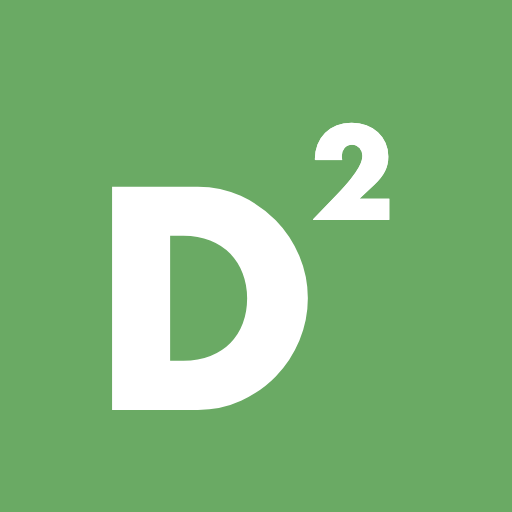
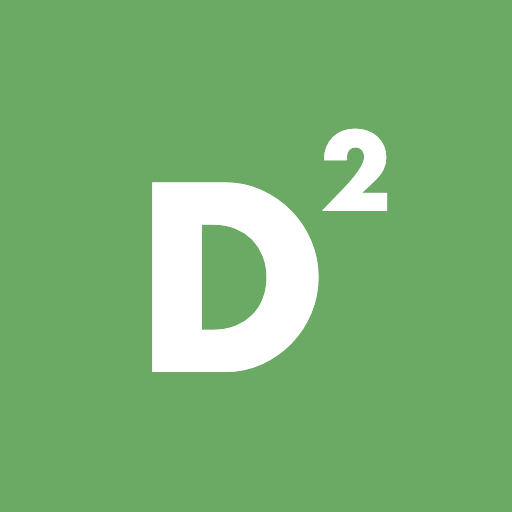
Dailyカレンダーを直下展開に変更し、丸いPWAアイコンに対応

diff --git a/DWORDle2/js/ui/problems-screen.js b/DWORDle2/js/ui/problems-screen.js
@@ -26,6 +26,9 @@ let levelIdx = -1; // -1 は Daily、0 以上は LEVELS のインデックス
 let blockStart = null; // ブロック表示中の先頭 No.（null なら ブロック一覧）
 let statusFilter = "all"; // "all" | "cleared" | "failed" | "unplayed"
 let dailyCalendarMonth = null; // year * 12 + month。null は今月
+let dailySelectedPid = null; // カレンダーで選択中の日付（null は今日）
+// 履歴が無い月もさかのぼれるように、今月からの遡行可能な月数だけを上限にする
+const DAILY_CALENDAR_MAX_MONTHS_BACK = 120;
 
 function build() {
   root = document.getElementById("screen-problems");
@@ -38,7 +41,7 @@ function statusOf(statusMap, pid) {
   return "failed";
 }
 
-function openProblemMenu(pid, statusMap, { allowPlay = true } = {}) {
+function openProblemMenu(pid, statusMap) {
   const mode = getAppMode();
   const st = statusMap.get(pid);
   const historyItems = (st?.times ?? [])
@@ -60,21 +63,12 @@ function openProblemMenu(pid, statusMap, { allowPlay = true } = {}) {
     closeButton: true,
     title: pidLabel(pid),
     body: [
-      allowPlay
-        ? el(
-            "button",
-            { class: "btn btn-primary", style: { width: "100%" }, onclick: () => { confirmAndStart(pid, mode); } },
-            icon("play"),
-            tr("この問題をプレイ", "Play this puzzle")
-          )
-        : el(
-            "p",
-            { class: "hint daily-history-only" },
-            tr(
-              "過去のDailyはプレイできません。プレイ履歴のみ確認できます。",
-              "Past Daily puzzles cannot be played. You can only view their play history."
-            )
-          ),
+      el(
+        "button",
+        { class: "btn btn-primary", style: { width: "100%" }, onclick: () => { confirmAndStart(pid, mode); } },
+        icon("play"),
+        tr("この問題をプレイ", "Play this puzzle")
+      ),
       historyItems.length
         ? el("div", { class: "hint", style: { marginTop: "6px" } }, tr("プレイ履歴:", "Play history:"))
         : el("p", { class: "hint" }, tr("この問題はまだプレイしていません。", "This puzzle has not been played yet.")),
@@ -122,7 +116,11 @@ function dailyCalendar(statusMap) {
     .map(dailyDateFromPid)
     .filter(Boolean)
     .map((date) => date.getFullYear() * 12 + date.getMonth());
-  const earliestMonth = playedDailyMonths.length ? Math.min(...playedDailyMonths) : currentMonth;
+  // 履歴が無い月も見られるように、遡行の下限は履歴とは無関係に決める
+  const earliestMonth = Math.min(
+    currentMonth - DAILY_CALENDAR_MAX_MONTHS_BACK,
+    ...playedDailyMonths
+  );
   if (
     dailyCalendarMonth === null
     || dailyCalendarMonth < earliestMonth
@@ -130,6 +128,8 @@ function dailyCalendar(statusMap) {
   ) {
     dailyCalendarMonth = currentMonth;
   }
+  // 選択中の日付。未選択・未来日付・表示中の月の外なら今日に戻す
+  const selectedPid = dailySelectedPid !== null && dailySelectedPid <= todayPid ? dailySelectedPid : todayPid;
   const year = Math.floor(dailyCalendarMonth / 12);
   const month = dailyCalendarMonth % 12;
   const firstWeekday = new Date(year, month, 1).getDay();
@@ -143,7 +143,7 @@ function dailyCalendar(statusMap) {
     const { status, doubleClear, label } = dailyStatus(statusMap, pid);
     const today = pid === todayPid;
     const future = pid > todayPid;
-    const interactive = today || status !== "unplayed";
+    const selected = pid === selectedPid;
     const dayLabel = tr(
       `${year}年${month + 1}月${day}日${today ? "、今日" : ""}、${label}`,
       `${year}-${String(month + 1).padStart(2, "0")}-${String(day).padStart(2, "0")}${today ? ", today" : ""}, ${label}`
@@ -152,12 +152,15 @@ function dailyCalendar(statusMap) {
       el(
         "button",
         {
-          class: `daily-calendar-day ${status} ${doubleClear ? "double-clear" : ""} ${today ? "today" : ""} ${future ? "future" : ""}`,
+          class: `daily-calendar-day ${status} ${doubleClear ? "double-clear" : ""} ${today ? "today" : ""} ${future ? "future" : ""} ${selected ? "selected" : ""}`,
           "aria-label": dayLabel,
-          disabled: future || !interactive,
+          "aria-pressed": future ? null : String(selected),
+          disabled: future,
           onclick: () => {
             playSfx("ui");
-            openProblemMenu(pid, statusMap, { allowPlay: today });
+            // ダイアログではなくカレンダー直下に内容を展開する
+            dailySelectedPid = pid;
+            render();
           },
         },
         el("span", { class: "daily-calendar-number" }, String(day)),
@@ -218,7 +221,65 @@ function dailyCalendar(statusMap) {
       tr(["日", "月", "火", "水", "木", "金", "土"], ["Sun", "Mon", "Tue", "Wed", "Thu", "Fri", "Sat"])
         .map((label) => el("span", {}, label))
     ),
-    el("div", { class: "daily-calendar-grid" }, cells)
+    el("div", { class: "daily-calendar-grid" }, cells),
+    dailyDetail(selectedPid, statusMap, todayPid)
+  );
+}
+
+// 選択した日の内容。以前はダイアログで出していたものをカレンダー直下へ展開する。
+function dailyDetail(pid, statusMap, todayPid) {
+  const mode = getAppMode();
+  const date = dailyDateFromPid(pid);
+  const isToday = pid === todayPid;
+  const { status, doubleClear, label } = dailyStatus(statusMap, pid);
+  const heading = date
+    ? tr(
+        `${date.getFullYear()}年${date.getMonth() + 1}月${date.getDate()}日`,
+        `${date.getFullYear()}-${String(date.getMonth() + 1).padStart(2, "0")}-${String(date.getDate()).padStart(2, "0")}`
+      )
+    : pidLabel(pid);
+  const plays = (statusMap.get(pid)?.times ?? []).slice().reverse();
+  return el(
+    "div",
+    { class: "daily-detail", "aria-live": "polite" },
+    el(
+      "div",
+      { class: "daily-detail-head" },
+      el("span", { class: "daily-detail-date" }, heading),
+      isToday ? el("span", { class: "daily-detail-today" }, tr("今日", "Today")) : null,
+      el("span", { class: "spacer" }),
+      el("span", { class: `daily-detail-status ${doubleClear ? "double-clear" : status}` }, label)
+    ),
+    el("div", { class: "daily-detail-pid" }, pidLabel(pid)),
+    isToday
+      ? el(
+          "button",
+          { class: "btn btn-primary daily-detail-play", onclick: () => { playSfx("ui"); confirmAndStart(pid, mode); } },
+          icon("play"),
+          tr("この問題をプレイ", "Play this puzzle")
+        )
+      : el(
+          "p",
+          { class: "hint daily-history-only" },
+          tr(
+            "過去のDailyはプレイできません。プレイ履歴のみ確認できます。",
+            "Past Daily puzzles cannot be played. You can only view their play history."
+          )
+        ),
+    plays.length
+      ? el(
+          "div",
+          { class: "daily-detail-plays" },
+          el("div", { class: "hint" }, tr("プレイ履歴:", "Play history:")),
+          ...plays.map((time) =>
+            el(
+              "button",
+              { class: "btn", onclick: () => { playSfx("ui"); navigate(`/result/${mode}/${time}`); } },
+              tr(`${fmtDateTime(time)} のプレイ`, `Play on ${fmtDateTime(time)}`)
+            )
+          )
+        )
+      : el("p", { class: "hint" }, tr("この日はまだプレイしていません。", "You have not played this day yet."))
   );
 }
 

diff --git a/DWORDle2/css/style.css b/DWORDle2/css/style.css
@@ -1921,9 +1921,77 @@ body.theme-pop.mode-normal .history-filter-field input::placeholder {
   background: linear-gradient(145deg, rgba(255, 209, 102, 0.28), rgba(255, 145, 65, 0.08));
   box-shadow: 0 0 8px rgba(255, 209, 102, 0.17);
 }
+/* 今日: 左上のドットとアクセント色の枠で常時わかるようにする（選択とは別表現） */
 .daily-calendar-day.today {
-  outline: 2px solid var(--accent);
+  border-color: var(--accent);
+  color: var(--fg);
+}
+.daily-calendar-day.today::before {
+  content: "";
+  position: absolute;
+  left: 3px;
+  top: 3px;
+  width: 5px;
+  height: 5px;
+  border-radius: 50%;
+  background: var(--accent);
+}
+/* 選択中: 白い枠で囲って浮かせる（下に内容が開いている日） */
+.daily-calendar-day.selected {
+  outline: 2px solid var(--fg);
   outline-offset: 1px;
+  background: color-mix(in srgb, var(--fg) 14%, transparent);
+  color: var(--fg);
+}
+/* カレンダーで選んだ日の内容（旧: ダイアログ） */
+.daily-detail {
+  display: flex;
+  flex-direction: column;
+  gap: 7px;
+  margin-top: 2px;
+  padding-top: 9px;
+  border-top: 1px solid var(--border);
+}
+.daily-detail-head {
+  display: flex;
+  align-items: center;
+  gap: 7px;
+}
+.daily-detail-date {
+  font-size: 13.5px;
+  font-weight: 900;
+}
+.daily-detail-today {
+  padding: 1px 6px;
+  border-radius: 999px;
+  background: color-mix(in srgb, var(--accent) 24%, transparent);
+  border: 1px solid color-mix(in srgb, var(--accent) 60%, transparent);
+  color: var(--fg);
+  font-size: 9.5px;
+  font-weight: 900;
+}
+.daily-detail-status {
+  color: var(--fg-dim);
+  font-size: 11px;
+  font-weight: 800;
+}
+.daily-detail-status.cleared { color: color-mix(in srgb, var(--tile-correct) 76%, white); }
+.daily-detail-status.failed { color: #ff9999; }
+.daily-detail-status.double-clear { color: var(--fa-gold, #ffd166); }
+.daily-detail-pid {
+  color: var(--fg-dim);
+  font-size: 11px;
+  font-weight: 700;
+  font-variant-numeric: tabular-nums;
+  margin-top: -4px;
+}
+.daily-detail-plays {
+  display: flex;
+  flex-direction: column;
+  gap: 6px;
+}
+.daily-detail .hint {
+  font-size: 11.5px;
 }
 .daily-calendar-number {
   font-size: 11px;

diff --git a/DWORDle2/sw.js b/DWORDle2/sw.js
@@ -2,7 +2,7 @@
 // DWORDle 2 の Service Worker。全資産をインストール時に事前キャッシュし、
 // オフラインでも完全動作させる（キャッシュ優先 + ネットワークフォールバック）。
 // キャッシュ名はソースハッシュ入りで、デプロイのたびに新しいキャッシュへ入れ替わる。
-const CACHE_NAME = "dwordle2-a3d143ef";
+const CACHE_NAME = "dwordle2-bf484ffb";
 const PRECACHE = [
   "./",
   "index.html",

diff --git a/DWORDle2/js/version.js b/DWORDle2/js/version.js
@@ -1,3 +1,3 @@
 // 自動生成ファイル。tools/make-source-hash.mjs が書き出す（手で編集しない）。
 // DWORDle2 のソースコード（index.html + css/** + js/**、このファイルを除く）のハッシュ。
-export const SOURCE_HASH = "a3d143ef";
+export const SOURCE_HASH = "bf484ffb";
